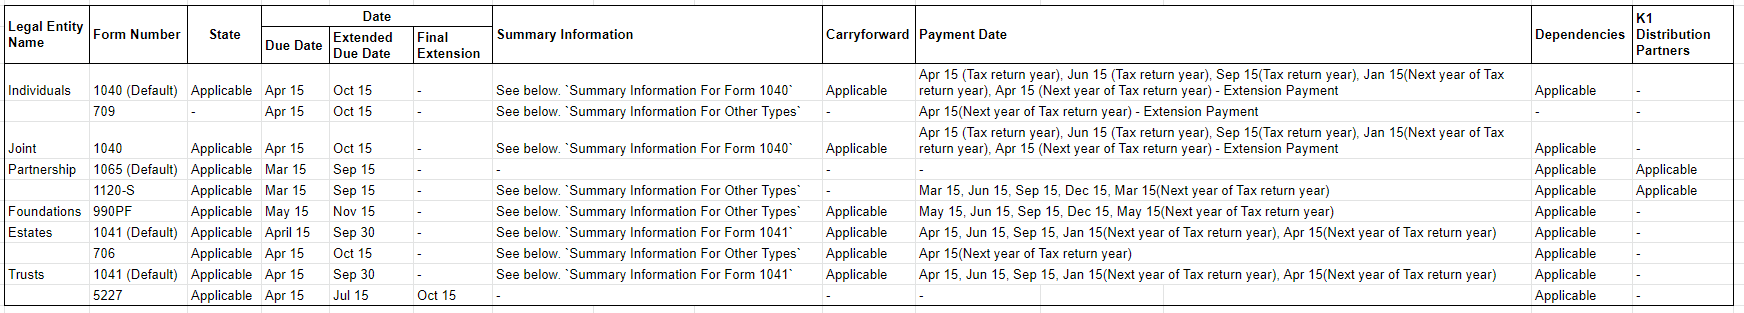
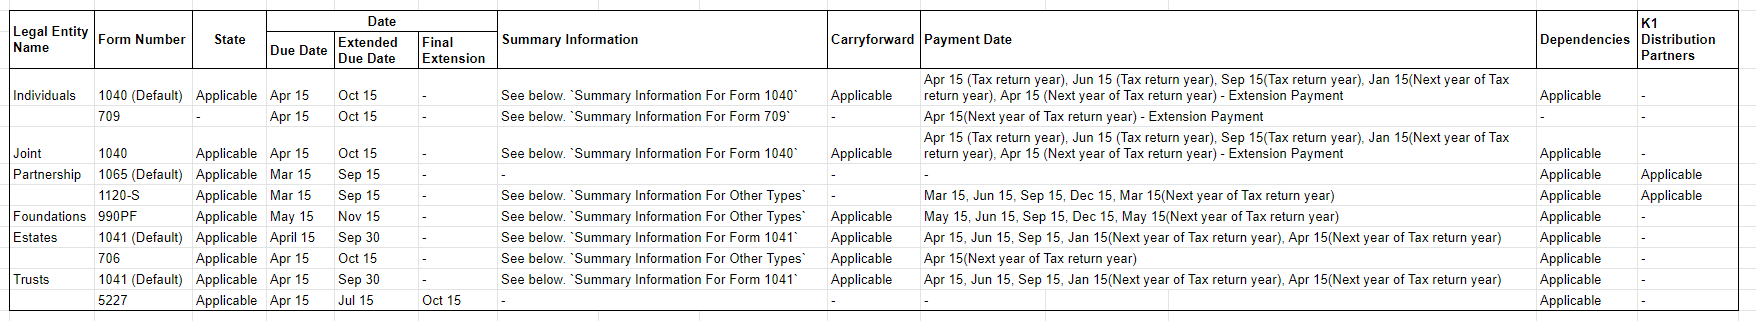
PRD update in Tax Return for Form-709

diff --git a/docs/prd/tax/tax.md b/docs/prd/tax/tax.md
@@ -83,7 +83,20 @@
 
 
 
-#### Summary Information for Other Form (709, 1120-S, 990PF, 706)
+#### Summary Information for Form 709
+
+| Field Name                        | Description                                                  |
+| --------------------------------- | ------------------------------------------------------------ |
+| Remaining Exemption into (year)   | Input is not allowed. Auto calculated field. this field is introduced in Phase-II. Currently in Phase-I default value is set to  `$ 0`. |
+| Total Gift                        | Amount of `Total Gift` is pulled from the `Total Given` amount from the Gifting app for that individual for that year. |
+| Annual Exclusion                  | Currency input. Decimal is allowed. Negative amount is not allowed. Mandatory field to set status `Filed`. Default value set to `$ 0`. |
+| Net Gift                          | Input is not allowed. its Calculated field. Negative amount is not allowed. Decimal is allowed. Calculation formula : `Net Gift = Total Gift - Annual Exclusion` |
+| Remaining Exemption out of (year) | Input is not allowed. Auto calculated field. this field is introduced in Phase-II. Currently in Phase-I default value is set to  `$ 0`. |
+| Tax Due                           | Currency input. Decimal and Negative amount is not allowed. Mandatory field to set status `Filed`. |
+
+
+
+#### Summary Information for Other Form (1120-S, 990PF, 706)
 
 | Field Name   | Description                                                  |
 | ------------ | ------------------------------------------------------------ |
